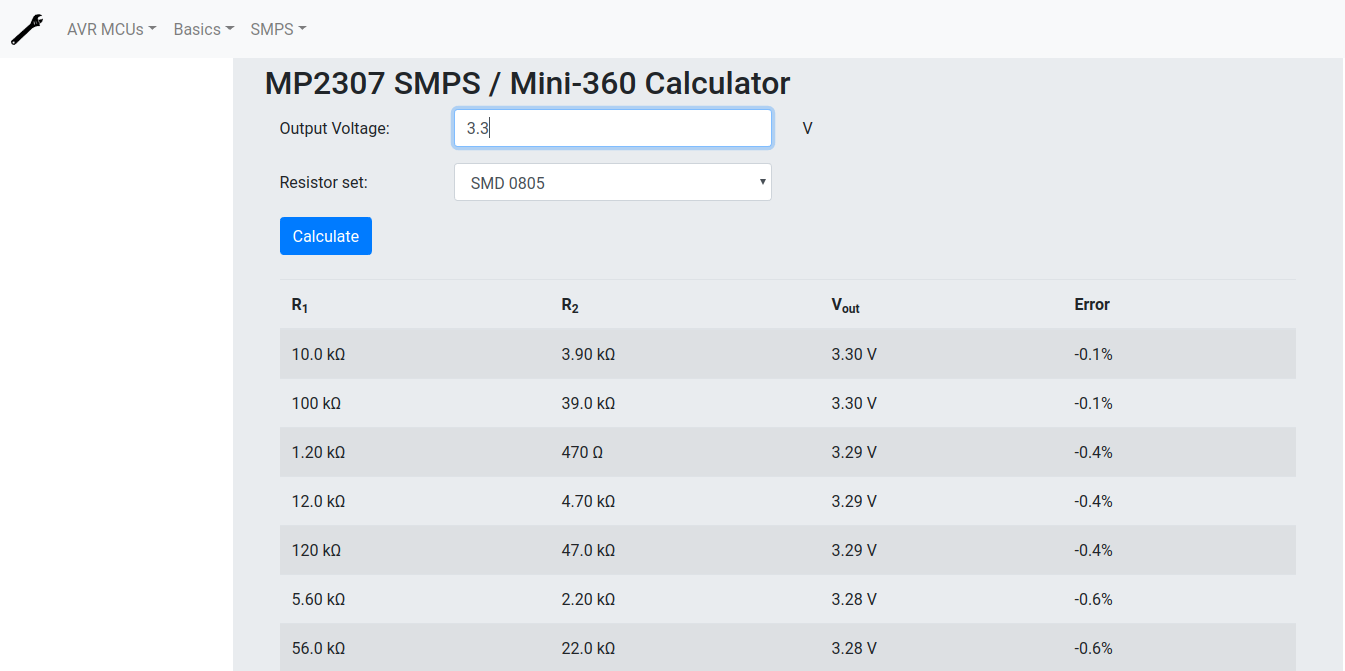
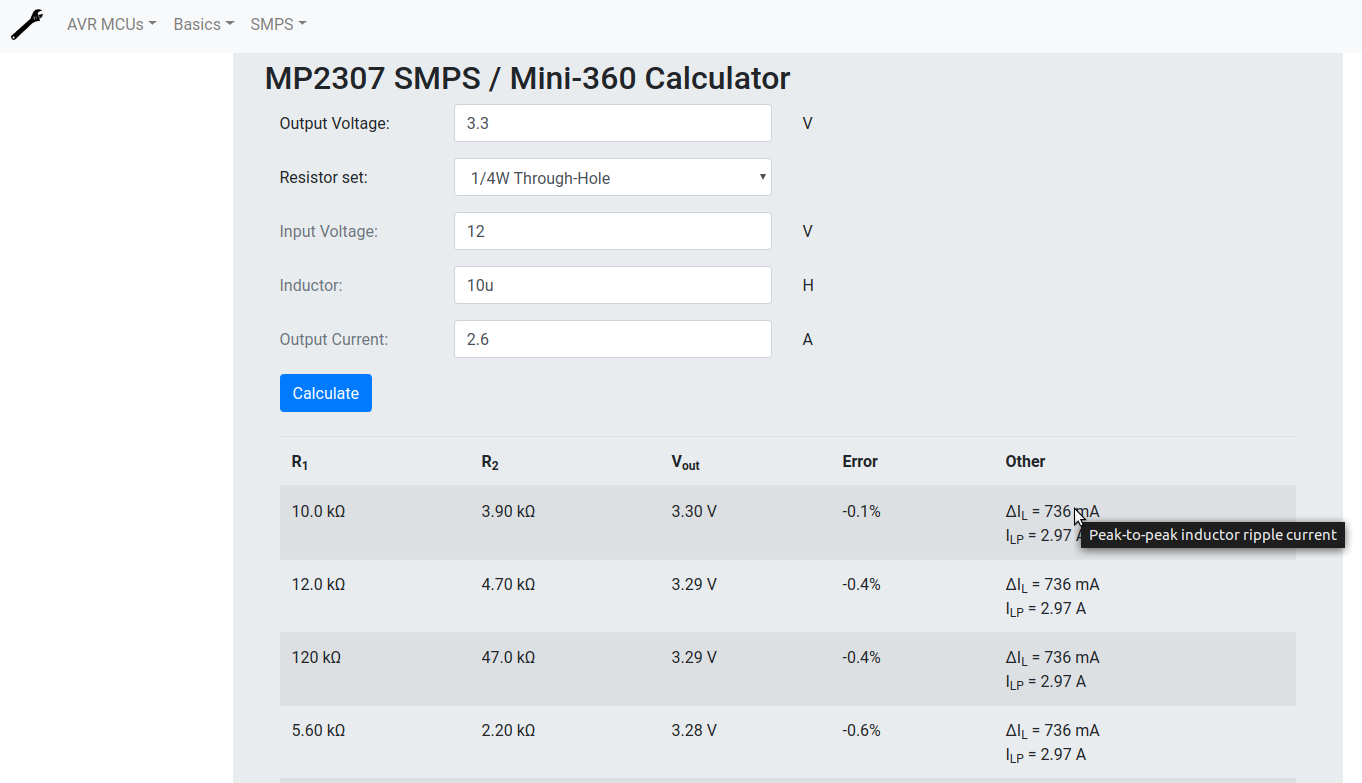
Current calculations for MP2307
Extend calculation of MP2307 by peak-to-peak inductor ripple current as
well as inductor rated current calculation.

diff --git a/plugins/SMPS_MP2307.py b/plugins/SMPS_MP2307.py
@@ -25,18 +25,37 @@ _form_template = """
 <form id="input_data">
 	${input_text("v_out", "Output Voltage", righthand_side = "V")}
 	${input_set("r_set", "Resistor set", valueset_group_name = "r")}
+	${input_text("v_in", "Input Voltage", righthand_side = "V", optional = True)}
+	${input_text("l", "Inductor", righthand_side = "H", optional = True)}
+	${input_text("i_out", "Output Current", righthand_side = "A", optional = True)}
 	${submit_button("Calculate")}
 </form>
 """
 
 _response_template = """
+%if d["show_other"]:
+${result_table_begin("R<sub>1<sub>", "R<sub>2</sub>", "V<sub>out</sub>", "Error", "Other")}
+%else:
 ${result_table_begin("R<sub>1<sub>", "R<sub>2</sub>", "V<sub>out</sub>", "Error")}
+%endif
+
 %for option in d["options"]:
 <tr>
 	<td>${option["r1"]["fmt"]}Ω</td>
 	<td>${option["r2"]["fmt"]}Ω</td>
 	<td>${option["v_out"]["fmt"]}V</td>
 	<td>${"%+.1f%%" % (100 * option["error"])}</td>
+%if d["show_other"]:
+	<td>
+	%if "delta_i_load" in option:
+		<span title="Peak-to-peak inductor ripple current" data-toggle="tooltip">ΔI<sub>L</sub> = ${option["delta_i_load"]["fmt"]}A</span>
+	%endif
+	%if "max_inductor_i" in option:
+		<br />
+		<span title="Maximum inductor current" data-toggle="tooltip">I<sub>LP</sub> = ${option["max_inductor_i"]["fmt"]}A</span>
+	%endif
+	</td>
+%endif
 </tr>
 %endfor
 
@@ -53,6 +72,10 @@ class Plugin(BasePlugin):
 	def request(self, endpoint, parameters):
 		v_out = UnitValue(parameters["v_out"])
 		r_set = self.config.get_valuesets("r")[parameters["r_set"]]
+		l = UnitValue(parameters["l"]) if (parameters["l"] != "") else None
+		v_in = UnitValue(parameters["v_in"]) if (parameters["v_in"] != "") else None
+		i_out = UnitValue(parameters["i_out"]) if (parameters["i_out"] != "") else None
+		f = 325e3
 
 		options = [ ]
 		for r2 in r_set.iter_range(500, 50000):
@@ -60,19 +83,26 @@ class Plugin(BasePlugin):
 			for r1 in r_set.iter_closest(ideal_r1):
 				actual_v_out = 0.925 * (float(r1) + float(r2)) / float(r2)
 				error = (actual_v_out - float(v_out)) / float(v_out)
-				options.append({
+				option = {
 					"r1":		r1.to_dict(),
 					"r2":		r2.to_dict(),
 					"v_out":	UnitValue(actual_v_out).to_dict(),
 					"error":	error,
-				})
+				}
+				if (v_in is not None) and (l is not None):
+					# Inductor and V_IN also given, calculate Delta I_L
+					option["delta_i_load"] = UnitValue(((float(v_in) * float(v_out)) - (float(v_out) ** 2)) / (f * float(l) * float(v_in))).to_dict()
+				if (v_in is not None) and (l is not None) and (i_out is not None):
+					option["max_inductor_i"] = UnitValue(float(i_out) + (float(v_out) / (2 * f * float(l)) * (1 - (float(v_out) / float(v_in))))).to_dict()
+				options.append(option)
 		options.sort(key = lambda opt: abs(opt["error"]))
 		return {
-			"options": options[ : 15 ],
+			"show_other":	(v_in is not None) and (l is not None),
+			"options":		options[ : 15 ],
 		}
 
 
 if __name__ == "__main__":
 	from pyengineer import Configuration
 	config = Configuration("configuration.json")
-	print(Plugin(config, instanciated_from = "local").request("calc", { "v_out": "3.3", "r_set": "E12" }))
+	print(Plugin(config, instanciated_from = "local").request("calc", { "v_out": "3.3", "r_set": "E12", "v_in": 12, "i_out": "100m", "l": "10u" }))
